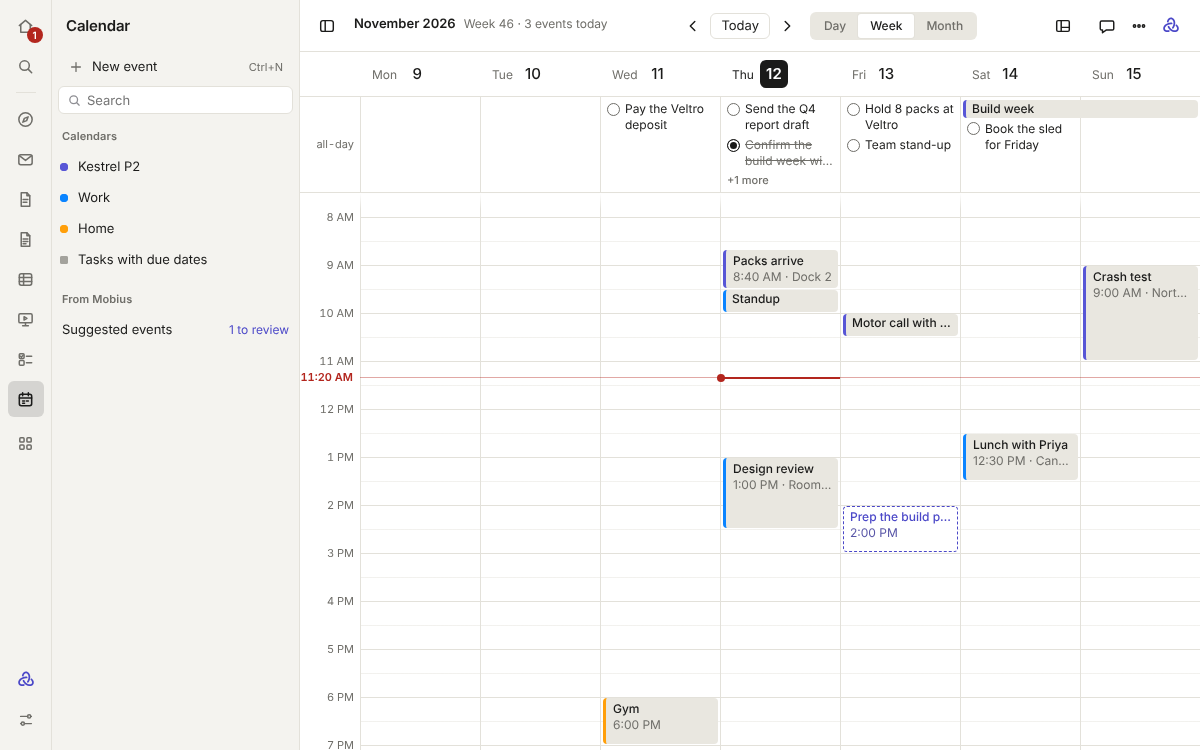
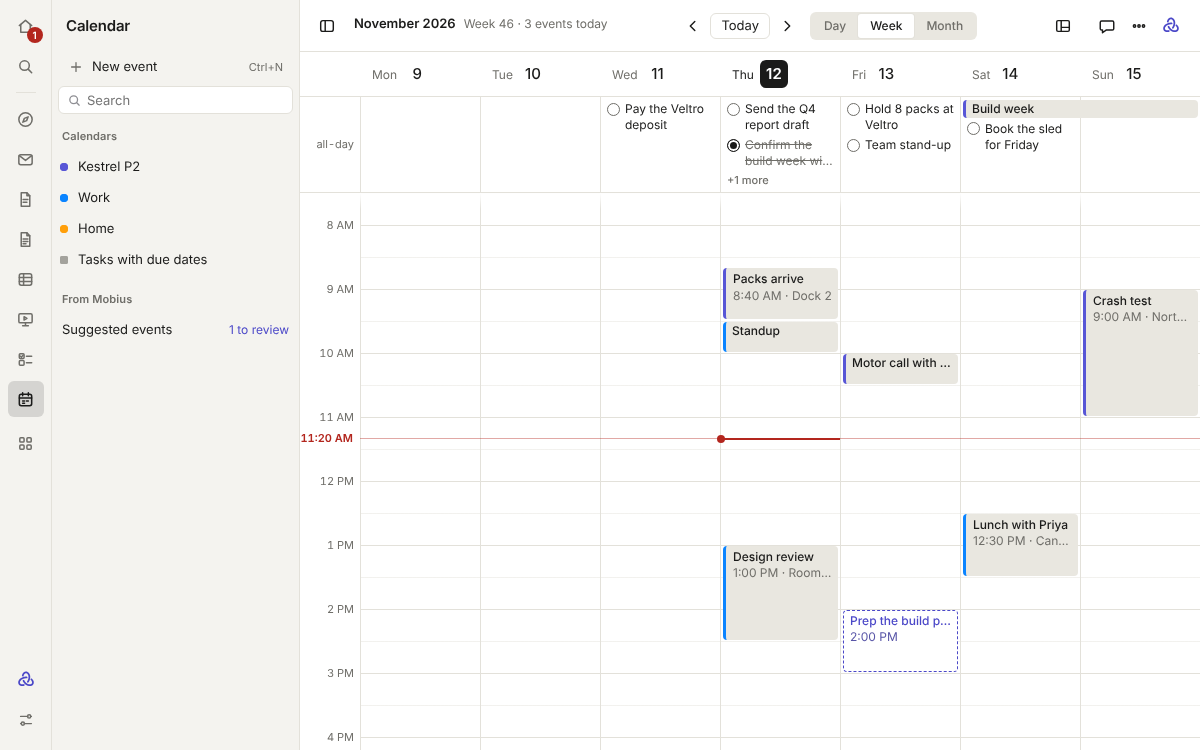
Calendar: taller hours in the comfortable density (64px), 48px in compact
Claude-Session: https://claude.ai/code/session_01VRGwo8bxjnbBoKBsw91QdV

diff --git a/apps/desktop/src/Calendar.tsx b/apps/desktop/src/Calendar.tsx
@@ -16,7 +16,18 @@ import type { Start } from './SideNew';
 import { ContextMenu, type ContextMenuItem } from './ContextMenu';
 import { AppSidebar, SidebarRow, SidebarSearch, SidebarSection, ToolbarControls, UndoToast, ViewSwitch } from './ui';
 
-const HOUR_PX = 48;
+/** An hour's height: 64 in the comfortable density (a working day shows whole), 48 in the compact one. */
+const hourPx = () => (document.documentElement.dataset.density === 'compact' ? 48 : 64);
+/** The hour's height, drawn again when the density changes in Settings › Appearance. */
+function useHourPx(): number {
+  const [px, setPx] = useState(hourPx);
+  useEffect(() => {
+    const watch = new MutationObserver(() => setPx(hourPx()));
+    watch.observe(document.documentElement, { attributes: true, attributeFilter: ['data-density'] });
+    return () => watch.disconnect();
+  }, []);
+  return px;
+}
 /** The hours' margin: wide enough for "10:20 AM" on the 12-hour clock. */
 const GUTTER = 60;
 /** How many events and tasks a month cell lists before "more". */
@@ -258,7 +269,8 @@ type Sweep = { day: number; column: HTMLElement; y: number; from: number; to: nu
 /** The box on screen of a stretch of time in a day's column, for an editor or menu to open beside. */
 const slotRect = (column: HTMLElement, minutes: number, length: number) => {
   const r = column.getBoundingClientRect();
-  return new DOMRect(r.left, r.top + minutes / 60 * HOUR_PX, r.width, length / 60 * HOUR_PX);
+  const hour = hourPx();
+  return new DOMRect(r.left, r.top + minutes / 60 * hour, r.width, length / 60 * hour);
 };
 /** Minutes into its day of a local time; an end on the next day (midnight) counts as the end of this one. */
 const minutesIn = (text: string, from?: string) => {
@@ -277,6 +289,7 @@ function TimeGrid({ calendar, days, onNew, onOpen, onMove, picking, pending, onS
   onEmpty: () => void;
 }) {
   const all = onScreen(calendar);
+  const HOUR_PX = useHourPx();
   const scroller = useRef<HTMLDivElement>(null);
   const grid = useRef<HTMLDivElement>(null);
   const [now, setNow] = useState(() => new Date());
@@ -422,7 +435,7 @@ function TimeGrid({ calendar, days, onNew, onOpen, onMove, picking, pending, onS
               aria-label={formatWith(d, { weekday: 'long', day: 'numeric', month: 'long' })}
               data-today={sameDay(d, now) || undefined}
               data-weekend={[0, 6].includes(d.getDay()) || undefined}
-              style={{ backgroundSize: `100% ${HOUR_PX}px` }}
+              style={{ ['--hour' as string]: `${HOUR_PX}px` }}
               onPointerDown={(e) => {
                 if (e.button !== 0 || e.target !== e.currentTarget) return;
                 onEmpty();

diff --git a/apps/desktop/e2e/calendar.spec.ts b/apps/desktop/e2e/calendar.spec.ts
@@ -36,6 +36,8 @@ const at = (hhmm: string) => {
   const [h, m] = hhmm.split(':').map(Number) as [number, number];
   return `(?:0?${h}:${pad(m)}|${((h + 11) % 12) + 1}:${pad(m)}\\s?${h < 12 ? 'AM' : 'PM'})`;
 };
+/** An hour's height on the grid, which follows the density. */
+const hourPx = async () => (await page().locator('.cal-grid').evaluate((g) => g.getBoundingClientRect().height)) / 24;
 /** From one time to another, as an event's name says it. */
 const span = (from: string, to: string) => `${at(from)}–${at(to)}`;
 
@@ -124,12 +126,13 @@ test('an event typed in words is set to repeat, then dragged an hour later, and 
   await expect(editor).toHaveCount(0);
   await expect.poll(() => fs.readFileSync(file('Calendar'), 'utf8')).toContain('RRULE:FREQ=DAILY');
 
-  // Dragged down an hour (48 pixels), the whole series moves, and Undo is offered.
+  // Dragged down an hour, the whole series moves, and Undo is offered.
+  const hour = await hourPx();
   const box = (await walk(span('10:00', '10:30')).boundingBox())!;
   await shell().mouse.move(box.x + box.width / 2, box.y + 8);
   await shell().mouse.down();
-  await shell().mouse.move(box.x + box.width / 2, box.y + 30, { steps: 4 });
-  await shell().mouse.move(box.x + box.width / 2, box.y + 56, { steps: 4 });
+  await shell().mouse.move(box.x + box.width / 2, box.y + 8 + hour / 2, { steps: 4 });
+  await shell().mouse.move(box.x + box.width / 2, box.y + 8 + hour, { steps: 4 });
   await shell().mouse.up();
   await expect(walk(span('11:00', '11:30'))).toBeVisible();
   await expect(page().getByRole('status').filter({ hasText: 'Moved “Site walk”' })).toBeVisible();
@@ -322,7 +325,7 @@ test('an event opens in a popover beside it, and the event picked out is duplica
   expect(fs.readFileSync(file('Work'), 'utf8')).not.toContain('Budget review Q4');
 
   // Empty time has a menu too: a new event there, edited beside it.
-  await page().locator('.cal-column').first().click({ button: 'right', position: { x: 20, y: 14 * 48 + 10 } });
+  await page().locator('.cal-column').first().click({ button: 'right', position: { x: 20, y: 14 * (await hourPx()) + 10 } });
   await shell().getByRole('menu').getByRole('menuitem', { name: new RegExp(`^New event at ${at('14:00')}$`) }).click();
   const made = shell().getByRole('dialog', { name: 'New event' });
   await expect(made).toHaveAttribute('data-pop', 'true');

diff --git a/apps/desktop/src/calendar.css b/apps/desktop/src/calendar.css
@@ -44,7 +44,7 @@
 .calendar-page .cal-day-head[data-today] b, .calendar-page .cal-day-head[data-today]:not(:disabled):hover b { background: var(--ink); color: var(--on-ink); border-radius: var(--radius-control); font-weight: 600; }
 
 /* The grid: hour lines, a fainter half-hour line, weekends a shade back, today a breath of accent. */
-.calendar-page .cal-column { background-image: linear-gradient(var(--line) 1px, transparent 1px), linear-gradient(color-mix(in srgb, var(--line) 45%, transparent) 1px, transparent 1px); background-position: 0 0, 0 calc(48px / 2); background-size: 100% 48px; touch-action: none; }
+.calendar-page .cal-column { background-image: linear-gradient(var(--line) 1px, transparent 1px), linear-gradient(color-mix(in srgb, var(--line) 45%, transparent) 1px, transparent 1px); background-position: 0 0, 0 calc(var(--hour, 64px) / 2); background-size: 100% var(--hour, 64px); touch-action: none; }
 .calendar-page .cal-column[data-weekend], .calendar-page .cal-month-cell[data-weekend]:not([data-outside]) { background-color: color-mix(in srgb, var(--panel) 70%, var(--bg)); }
 .calendar-page .cal-grid[data-dragging] { cursor: grabbing; user-select: none; }
 .calendar-page .cal-hour { font-size: 11px; }

diff --git a/docs/apps/write-and-plan.md b/docs/apps/write-and-plan.md
@@ -93,7 +93,8 @@ Your calendars by day, week or month.
 - **Search** at the top of the sidebar finds events from a month back to a year ahead, by title, place or notes. Pick
   one to go to its day.
 - **The toolbar** holds Back, Today and Forward, and Day, Week and Month; the title says the week's number. When Mobius
-  is open beside a small window, Today's word, then the views give way; T, N, Q, D, W, M and the arrow keys still work.
+  is open beside a small window, Today's word, then the views give way; T, N, Q, D, W, M and the arrow keys still work. An hour is taller in the comfortable density, so a working day
+  shows whole, and shorter in the compact one.
 - **Events** are one quiet fill with their calendar's colour on the left edge. The all-day row shows two items a day;
   **+N more** shows the rest, and **Fewer** folds them away again.
 - **Open an event** with a click: it edits in a popover beside it. Changes are kept when you click elsewhere or press
